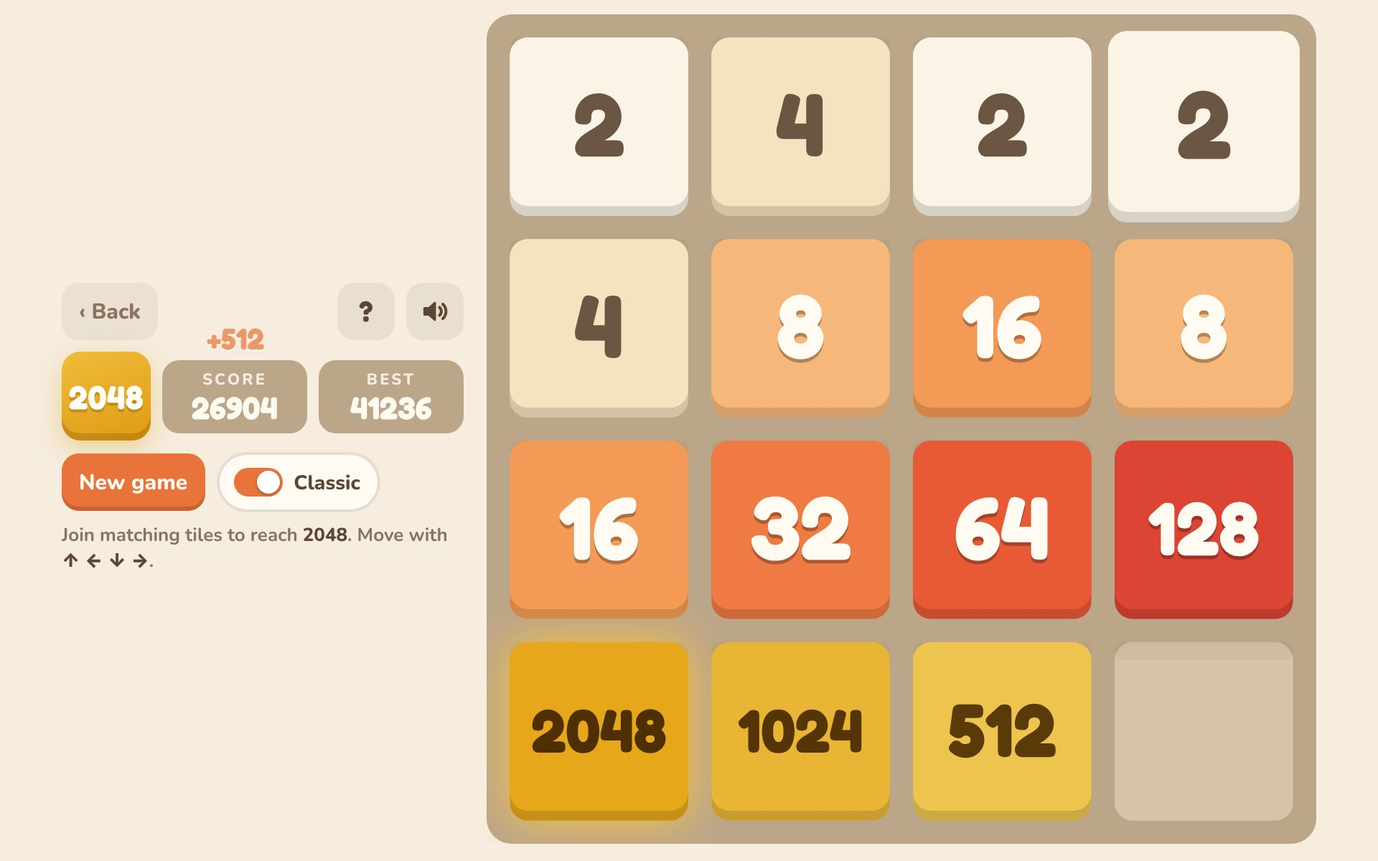
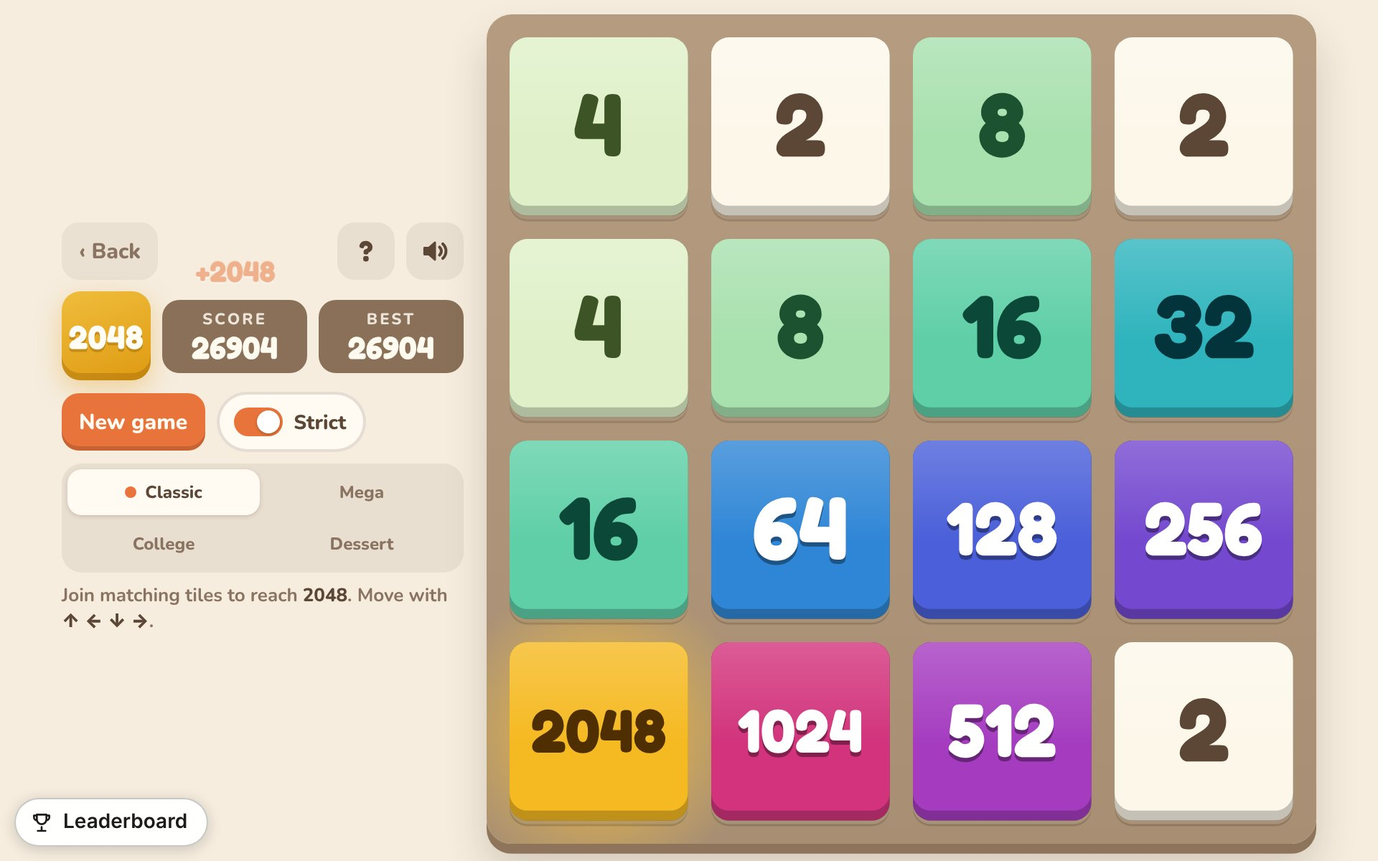
2048: win, game-over and new-game cards, darker score boxes, score bump, new card picture
The overlays dim the board behind a cream card (the win screen adds a
gold sunburst and a star badge). README section, preview.jpg and the
phone thumbnail updated to match. Art only; rules, scoring, controls
and saved data are unchanged.

Claude-Session: https://claude.ai/code/session_01DfCR7RPoK1UNAvb7iRuPWn

diff --git a/e63334287a3deaa3/2048/index.html b/e63334287a3deaa3/2048/index.html
@@ -19,8 +19,8 @@
   --bg:#f6eddf;
   --ink:#5c4636;
   --ink-2:#8a7360;
-  --board:#bca68a;
-  --cell:#d9c8b0;
+  --board:#8a7059;
+  --tray-edge:#8d745b;
   --tan:#a88d70;
   --orange:#e8743b;
   --gold:#e3a51a;
@@ -42,7 +42,8 @@ button:disabled{opacity:.45;cursor:default}
   padding:max(10px,env(safe-area-inset-top)) max(14px,env(safe-area-inset-right)) max(12px,env(safe-area-inset-bottom)) max(14px,env(safe-area-inset-left));touch-action:none}
 #side{width:100%;max-width:560px;display:flex;flex-direction:column;gap:10px;flex:none}
 #wrap{flex:none;display:flex;align-items:center;justify-content:center}
-#board{position:relative;width:300px;height:300px;flex:none;--s:300px}
+#board{position:relative;width:300px;height:300px;flex:none;--s:300px;border-radius:max(8px,calc(var(--s)*.03));
+  box-shadow:0 calc(var(--s)*.012) 0 var(--tray-edge),0 calc(var(--s)*.03) calc(var(--s)*.05) rgba(70,48,28,.2)}
 #cv{display:block;width:100%;height:100%}
 
 #topbar{display:flex;align-items:center;gap:8px;min-height:40px}
@@ -62,6 +63,8 @@ body.framed #back{display:none}
 .sbox small{display:block;font:800 11px var(--f-u);letter-spacing:.14em;text-transform:uppercase;opacity:.85}
 .sbox b{display:block;font:700 26px/1.1 var(--f-d);font-variant-numeric:tabular-nums;white-space:nowrap}
 .plus{position:absolute;left:50%;bottom:100%;transform:translateX(-50%);font:700 20px/1 var(--f-d);color:var(--orange);pointer-events:none;white-space:nowrap;text-shadow:0 1px 0 #fff;animation:plus .8s ease-out forwards;z-index:3}
+#score.bump{animation:bump .26s ease-out}
+@keyframes bump{0%{transform:scale(1)}35%{transform:scale(1.16)}100%{transform:scale(1)}}
 @keyframes plus{0%{opacity:0;transform:translate(-50%,22px) scale(.8)}18%{opacity:1;transform:translate(-50%,2px) scale(1.05)}100%{opacity:0;transform:translate(-50%,-22px) scale(1)}}
 
 #actions{display:flex;flex-wrap:wrap;gap:8px;align-items:center}
@@ -89,17 +92,25 @@ body.touch .kh{display:none} body.touch .th{display:inline}
 .mode[aria-checked="true"]::before{content:"";display:inline-block;width:8px;height:8px;margin-right:6px;border-radius:50%;background:var(--orange);vertical-align:0}
 #modeDesc{margin:6px 2px 0;font:700 13px/1.4 var(--f-u);color:var(--ink-2)}
 
-/* Board overlays: sized from --s (the board's width) so they fit any board */
-.ov{position:absolute;inset:0;display:flex;align-items:center;justify-content:center;border-radius:calc(var(--s)*.03);background:rgba(246,237,223,.8);
-  -webkit-backdrop-filter:blur(2px);backdrop-filter:blur(2px);animation:fade .25s ease-out;padding:calc(var(--s)*.05);text-align:center;z-index:2}
-.ov.win{background:radial-gradient(circle at 50% 40%,rgba(255,226,140,.92),rgba(240,190,70,.86))}
+/* Board overlays: sized from --s (the board's width) so they fit any board. The board dims behind a cream card
+   that pops in; the win screen adds a gold sunburst and a star badge on the card. */
+.ov{position:absolute;inset:0;display:flex;align-items:center;justify-content:center;border-radius:max(8px,calc(var(--s)*.03));overflow:hidden;background:rgba(58,42,31,.62);
+  animation:fade .22s ease-out;padding:calc(var(--s)*.04);text-align:center;z-index:2}
+.ov.win{background:repeating-conic-gradient(from 6deg at 50% 46%,rgba(255,220,120,.22) 0 12deg,rgba(255,220,120,0) 12deg 24deg),radial-gradient(circle at 50% 46%,rgba(214,140,16,.72),rgba(64,40,12,.8))}
 @keyframes fade{from{opacity:0}to{opacity:1}}
-.ov-card{display:flex;flex-direction:column;align-items:center;gap:calc(var(--s)*.03);max-width:100%}
-.ov .big{font:700 calc(var(--s)*.095)/1.05 var(--f-d);color:var(--ink)}
-.ov.win .big{color:#6e3f00}
+.ov-card{position:relative;display:flex;flex-direction:column;align-items:center;gap:calc(var(--s)*.028);max-width:100%;
+  padding:calc(var(--s)*.05) calc(var(--s)*.055) calc(var(--s)*.055);border-radius:calc(var(--s)*.05);background:var(--panel);
+  box-shadow:0 calc(var(--s)*.012) 0 #d6c3a8,0 calc(var(--s)*.04) calc(var(--s)*.09) rgba(30,18,8,.45);animation:card .34s cubic-bezier(.2,1.25,.4,1) both}
+@keyframes card{from{opacity:0;transform:translateY(calc(var(--s)*.03)) scale(.9)}to{opacity:1;transform:none}}
+.ov.win .ov-card{margin-top:calc(var(--s)*.07);padding-top:calc(var(--s)*.105)}
+.ov.win .ov-card::before{content:"\2605";position:absolute;left:50%;top:calc(var(--s)*-.075);width:calc(var(--s)*.15);height:calc(var(--s)*.15);margin-left:calc(var(--s)*-.075);
+  display:grid;place-items:center;border-radius:28%;background:linear-gradient(160deg,#f9cf52,#f0a713);color:#fffdf5;font:700 calc(var(--s)*.095)/1 system-ui,sans-serif;
+  text-shadow:0 calc(var(--s)*.006) 0 rgba(120,72,0,.35);box-shadow:inset 0 calc(var(--s)*-.012) 0 rgba(120,72,0,.25),0 calc(var(--s)*.012) calc(var(--s)*.035) rgba(120,72,0,.4);
+  transform:rotate(-6deg);animation:badge .45s .12s cubic-bezier(.2,1.5,.4,1) both}
+@keyframes badge{from{opacity:0;transform:rotate(-30deg) scale(.4)}to{opacity:1;transform:rotate(-6deg) scale(1)}}
+.ov .big{font:700 calc(var(--s)*.088)/1.05 var(--f-d);color:var(--ink)}
 .ov .big.sm{font-size:calc(var(--s)*.075)}
 .ov p{margin:0;font:700 calc(max(13px,var(--s)*.04))/1.35 var(--f-u);color:var(--ink-2)}
-.ov.win p{color:#7a4c0a}
 .ov .row{display:flex;flex-wrap:wrap;gap:10px;justify-content:center;margin-top:calc(var(--s)*.01)}
 .ov .btn{min-height:44px;font-size:max(14px,calc(var(--s)*.038))}
 .ovstats{display:flex;gap:10px}
@@ -161,7 +172,7 @@ body.touch .kh{display:none} body.touch .th{display:inline}
   .mode{padding:4px 4px;font-size:12px}
 }
 @media (orientation:portrait) and (max-height:600px){ #hint{display:none} }
-@media (prefers-reduced-motion:reduce){.plus,.ov{animation:none}}
+@media (prefers-reduced-motion:reduce){.plus,.ov,.ov-card,.ov.win .ov-card::before,#score.bump{animation:none}}
 </style>
 <script src="/e63334287a3deaa3/stats.js" data-game="2048" data-board="bl" defer></script>
 </head>
@@ -631,6 +642,7 @@ function floatPlus(n){
   s.addEventListener('animationend',()=>s.remove());
   box.appendChild(s);
   setTimeout(()=>s.remove(),1200);
+  if(!REDUCED){const sc=$('score');sc.classList.remove('bump');void sc.offsetWidth;sc.classList.add('bump')}   // the score number bumps too
 }
 function setClassic(on){
   opts.classic=!!on;saveOpts();renderHud();
@@ -954,8 +966,8 @@ function drawJoinFx(v,x,y,sc,k){
   ctx.translate(x+h,y+h);
   ctx.globalAlpha=0.5*f*f;
   ctx.fillStyle='#fff';rr(-h*sc,-h*sc,c*sc,c*sc*0.945,RC*sc);ctx.fill();
-  const rs=1.04+0.26*easeOut(k),lw=Math.max(1.5,c*0.05*f);
-  ctx.globalAlpha=0.75*f;
+  const rs=1.04+0.26*easeOut(k),lw=Math.max(1.5,c*0.065*f);
+  ctx.globalAlpha=0.85*f;
   ctx.strokeStyle=st.rim?'#ffd86a':st.hi;ctx.lineWidth=lw;rr(-h*rs,-h*rs,c*rs,c*rs,RC*rs);ctx.stroke();
   ctx.restore();
 }

diff --git a/README.md b/README.md
@@ -37,7 +37,7 @@ Personal site hosted with GitHub Pages at **https://ascoding11.github.io**, the 
 - `e63334287a3deaa3/rampline/`: Rampline (Back Room), a low-poly stunt time-trial racer with a track builder, online boards and community tracks (Three.js; Firebase Realtime Database only for the boards and community tracks, under the prefix `rl`, plus stats.js). One small car, one track, the clock: 30 built-in tracks in four tiers (`TIERS`: Green, Blue, Red, Black), your own tracks from the builder, and tracks other players publish. Everything that isn't drawing is the `RL` module between `// ==CORE==` and `// ==/CORE==`, with no DOM or Three.js in it, so a Node script can run it on its own: the pieces (`PIECES`), building a track (`buildTrack`), the car physics (`newCar`, `step`), share codes, ghost recordings, the checks (`validate`), the track-writing cursor (`Course`), the tracks (`TRACKS`, `trackOf`) and the checking bot (`runBot`). **Pieces** sit on a grid of 10 m tiles and 2 m height steps with a quarter-turn (`{t, x, y, z, r, w}`: type, tile, height, turn, side walls); each has the tiles it covers (`fp`), how many height steps above it it keeps clear (`hh`) and its ports (where road leaves it). Pieces: straight, curves (tight, normal, wide, huge), S-bends left and right, slope, steep slope and long climb (+1, +2, +3 steps), climbing curves left and right (+1 step while turning), bump, two banked curves, boost pad, kicker and big ramp (no exit port: they launch you), loops leaning left and right, wall ride, narrow road, gap, platform, start, checkpoint, checkpoint ring (an arch instead of posts), finish, and scenery (tree, rock, arrow sign). The order of `PIECES` is part of the share-code format: only ever add to the end (the pieces from curveXL on were added with the handling pass). Raised road gets **pillars** down to the ground automatically (`pillars` in `buildTrack`), every 10 m or so, only where no other piece is below that tile and always below the road surface. **One set of triangles:** `buildTrack` turns every piece into triangles that are both the collision geometry (type 0 road, 1 solid; `FX` 1 marks a boost pad) and, merged with one colour each, the single drawn mesh; positions are rounded to 1/1024 m. **Physics** (`PH`, `PHYS_V` 2, fixed 1/120 s step, only + − × ÷ and √ while stepping, so a recording of inputs replays to exactly the same run on any device): the car is a point riding 0.55 m above the road with two 0.75 m spheres for hitting things. Acceleration 20 m/s² tapering to nothing at 82 m/s with drag: 0–100 km/h in 1.5 s, 0–200 in 3.8 s, top speed about 252 km/h. Steering lock and rate fall off with speed (full lock turns in 6 m at 30 km/h and about 55 m at 150 km/h), and the turn rate is capped a little above what the tyres hold, so holding full lock at speed slides a little. **Drifting:** let go of go and tap brake while steering at more than 50 km/h: the nose holds an angle set by the steering (`driftAng`), grip is a little higher than normal (`driftK`), so you get round a tight corner at speed (about 75 % of the grip turn's radius, for 3–8 % of your speed); it lasts while you keep steering and the car is sideways. Downforce grows with speed (`stick` plus `stickHi` above 30 m/s), which keeps you on loops, wall rides and most crests; the fastest cars still fly over sharp crests. A share of the road's turn at take-off carries into the air as spin (`carryW`); in the air the **air brake** (input 32, Space or Left Shift, or the brake) damps the spin and levels the car for the landing; landing square keeps your speed, crooked costs up to 70 % (with the air brake the bot's landings cost 2–5 %, without it up to 70 % and falls). Boost pads give 1.4 s of extra push up to 1.3 × the top speed. Walls take the speed into them, turn the nose along them and never push a car on the road upwards (barriers on banks and loops lean). Falling off (or 6 s in the air) puts you back at the last checkpoint 0.25 s later with the speed you had there; Backspace does it at once. **A run that went back to a checkpoint doesn't count** (no best, ghost, medal, stats or board), and the HUD shows "Practice". Starting a track and R are both instant and plain (restart under a millisecond): no countdown, no camera move and no fade; the car waits on the line with the camera already in place, and the clock starts with your first drive key. The menu sits over a still view of a track. Splits against your best show at every checkpoint and at the finish. **Gates:** a checkpoint counts when you cross it either way; the finish only counts going forwards, once every checkpoint has been passed. **Tracks** are written with the `Course` cursor (`s`, `L`/`R` curves with `S`, `M`, `L`, `X` sizes, `sL`/`sR`, `bL`/`bR`, `up`/`down`, `climb`/`drop`, `cuL`/`cuR`/`cdL`/`cdR`, `bump`, `boost`, `ring`, `loop`, `wall`, `narrow`, `gap`, `ramp` + `jump(n, dy, speed cap)`, `plat`, `cp`, `fin`), each with its look (`th`). After changing a track or the physics, run the bot: it drives with the real `step` and only a player's keys (it slows for crests that lead into corners and for jumps' speed caps, uses the air brake, and never starts a drift by accident), in 13 styles; every track must be finished cleanly by at least one, and the same inputs must replay to the same time. `MED` ([builder, gold, silver, bronze] in ms) comes from it: builder is the bot's best clean time rounded up to 10 ms, gold 1.05 ×, silver 1.2 ×, bronze 1.45 ×, rounded up to 0.1 s. Built-in tracks run 24–49 s for the builder time. The 20 tracks from the first version got longer layouts (layout 2) with the handling pass: a best from the first layout is kept in the save as `pb[id].old = {t, m}` (shown on the track card as "Old layout", and its medal `m`, worked out with `OLD_MED`, still counts). **Looks:** three environments of our own, chosen per track (`th`, or Look in the builder): Summer valley, Snowy pass, Desert canyon (`THEME`: sky, fog, ground, hills, and recolouring of trees, rocks and road sides). **Ghosts:** a ghost is a recording of inputs driven through the same physics once (`GTrack`, every step's pose kept, built a little ahead of where it's needed), so up to 10 race at once with almost no cost and never collide: your best (the Ghost setting) plus any you tick on a board. **Online** (signed in anonymously only when first used; the shared rules only let a player write their own node, which needs n, c, x, z, h, ts): `rooms/rl-b2-<key>/players/<uid>` is a player's board entry for a track (`t` best ms, `k` car, `p` paint, `pa`, `a`), `rooms/rl-g2-<key>/players/<uid>` the ghost behind it (`t`, `g` the inputs, `f` 2, `v` PHYS_V), where `<key>` is a built-in track's id or a custom track's `trackKey` and "2" is PHYS_V (new physics, new boards). A clean new best is uploaded if it beats the account's entry. The top 10 shows only entries whose ghost, fetched and driven again on this device, finishes cleanly in exactly the claimed time (`Online.verify`; results cached in `rampline:vc`), so a made-up time or an edited recording never shows. `rooms/rl-tracks/players/<uid>` holds a player's published tracks (`tr: {<trackKey>: {nm, code, at}}`, at most 5, at most 800 pieces each, and only after a clean finish of it), `rooms/rl-plays/players/<uid>` who raced which published track (`p: {<trackKey>: [best ms, last played]}`, 150 at most). **Community** lists published tracks (newest, most raced, raced this week), with the featured track of the week on top (the most raced in the last 7 days, else one picked by the week number), each with its own top 10; names and track names go through `/namefilter.js`. Hide and Report hide a track in this browser only (`rampline:hidden`); there is no shared report list, so Report tells the player to use Tell Arjun. **Replay viewer:** watch any of your last 12 runs (`rampline:runs`) or a board run, with play/pause, frame steps, ¼× to 2×, a timeline, and a graph of speed over distance that can lay a second run (your best or a board run) over the first. **Builder:** a free camera (middle-drag to look round, right-drag, Shift-drag or WASD to pan, wheel to zoom, Shift + wheel or Q/E for the build height), a palette (keys 1–0 for the first ten), click or tap to place (R turns it; the preview shows arrows where the road leaves), right-click, X then click, or the bin to delete, the select tool (V: click, Shift-click or drag a box) to move (M, or M over a piece to pick it up), copy (Ctrl+C), cut (Ctrl+X), paste (Ctrl+V, R turns the group, Esc cancels and puts a moved group back) or delete pieces, Ctrl+Z / Ctrl+Y undo and redo (200 steps), Look (theme), a check, Test drive (T), Share, and Publish (in Track builder's list). **Share codes:** `RL1.` + base64url of: version 1, name length + UTF-8 name (≤ 40 bytes), piece count (2 bytes), 5 bytes a piece (type, x + 128, z + 128, y, turn + 4 × walls), then an FNV-1a checksum (4 bytes); version 2 is the same with a theme byte after the version (theme 0 is still written as version 1, so older copies read it). `decodeTrack` checks everything and returns a plain message for anything wrong. **Saved in the browser:** `rampline:save` (`{v: 1, pb: {<key>: {t, sp, n, name, lv, old}}, runs}`), `rampline:ghost:<key>` (`{v: PHYS_V, f: 2, t, g}`: your best run as inputs, one byte per step (1 go, 2 brake, 4 left, 8 right, 16 back to checkpoint, 32 air brake) in runs of varint(count × 64 + input), base64url; version 1 ghosts used count × 32 and the old physics, and are left alone), `rampline:runs`, `rampline:tracks`, `rampline:hidden`, `rampline:vc`, `rampline:set` (`vol, mute, cam, gfx, car, col, ghost`), `rampline:garage` (`{v: 1, car, col, pat, acc, rim, trail, name}`: car, paint, pattern (plain, stripe, twin stripes, two-tone) and its colour, rims, exhaust trail (off, smoke, flame, rainbow) and the name on the boards; account-nudge.js syncs it) and keys under `keybinds:rampline`. Stats hooks: `min('r2-<track id>', seconds)` for every clean built-in finish (stats.js's `LOWER`; the old `t-<id>` names stay there for first-layout times), `max('medals', n)` (1 to 4 a track, old-layout medals included) and `max('golds', n)`. Drawing: the track is one merged mesh, each gate banner its own mesh, the car one mesh plus its wheels as one `InstancedMesh`, each ghost the same plus a name tag, dust and the exhaust trail a point cloud each, speed lines one line set; with no ghosts racing is about 15 draw calls, with 10 ghosts about 41 (logic under 1 ms a frame). The camera widens its view and pulls back with speed, and speed lines fade in above about 90 km/h; the Speed effects setting (menu and pause, `set.fx` in `rampline:set`, on by default) turns both the widening and the lines off. On touch screens the page adds `touch` to `body` (steer bottom left, GO and BRAKE bottom right, BRAKE in the air is the air brake, checkpoint/restart/camera/sound/pause top right); the builder works by tapping, with one finger to look round, two to pan and pinch, and the select tool's bar (Move, Copy, Delete, Done) above the palette. A test hook (`window.__rl`) exists only when `navigator.webdriver` is set.
 - `e63334287a3deaa3/tidewick/`: Tidewick (Back Room), a classic 8-bit style side-scrolling platformer for one player (Canvas 2D and Web Audio, no Firebase except stats.js). Pip, a child in a yellow raincoat, crosses a rainy harbour at dusk in two stages: **HARBOR 1** (the quay, about 210 tiles) and **HARBOR 2: THE BREAKWATER** (a short stone fortress over dark water, about 100 tiles) with a boss at the end. Unlike the other Back Room games it isn't one self-contained `index.html`: it's ES modules (the owner asked for them) in `js/`, loaded by `<script type="module" src="js/main.js">` with relative imports only, so it works from `python3 -m http.server` and GitHub Pages with no build step: `constants.js` (**every tunable number**: speeds, jump bands, gravities, air control, hitboxes, timers, scores, the boss), `level.js` (the stages and the cellar as rows of characters, with a legend at the top of the file: edit a row by hand, keeping every row of a map the same length), `player.js` (Pip's movement and collision), `entities.js` (enemies, power-ups, sparks, the Tollkeeper and its bolts), `game.js` (the states, scoring and how things touch; no DOM, so a Node script can import it and run the game headless), `collision.js`, `camera.js`, `input.js`, `sprites.js` (a 50-colour palette and every sprite as a pixel grid using at most three colours plus transparency, drawn to offscreen canvases at startup), `render.js`, `hud.js` (a 5 × 7 pixel font drawn in code, the HUD and the full-screen cards), `audio.js` (two pulse voices, a triangle and noise, synthesised; every tune is Tidewick's own) and `main.js` (the page, the loop, touch buttons). **Loop**: a fixed 60 updates a second in `requestAnimationFrame` (the number of updates is worked out from the time passed, so 60, 120 and 144 Hz screens run identically), a frame gap is capped at 100 ms, and the game pauses itself when the tab is hidden or loses focus. The picture is 256 × 240, drawn into an off-screen buffer and shown as large as the window allows in its 16:15 shape (`fit()` in `main.js`; F or the Full screen button gives it the whole screen and hides the key strip). The canvas is sized in device pixels and laid out at one CSS pixel per canvas pixel, then shrunk by the device pixel ratio with a transform (a fractional CSS width gets rounded by layout and stretches the picture by a pixel or two). When the size comes out within 4% of a whole number of device pixels per game pixel it snaps to it and the buffer is copied straight across; otherwise `present()` first blows the buffer up to the next whole number with hard edges and then eases that down to the canvas, so every game pixel is the same width and nothing shimmers as the view scrolls. Making the picture bigger never changes the game: the rules only ever see the 256 × 240 world. **Physics** follow the owner's spec to the number (pixels per frame): from rest Pip starts at 0.0742, walks up to 1.5625 (0.0371 a frame) and runs up to 2.5625 (0.0557), slows by 0.0508 with nothing held and skids at 0.1016 when pushing the other way, turning round below 0.6875; the jump's start speed and two gravities are picked at take-off from the speed (`JUMP_BANDS`: under 1, up to a full walk, and anything faster than a walk, which is the higher, heavier running jump; the lighter gravity only while jump is held and Pip is still rising), falling speed drops back to 4 whenever it reaches 4.5 (`MAX_FALL`, `FALL_TRIP`), air control has its own accelerations and a cap set by the take-off speed. A standing jump rises 66 px (4.1 tiles), a full-speed running jump 82.5 px (5.2). Running into a wall stops Pip dead (so a jump from against a wall is a standing jump), and big Pip ducks by himself if he ever stands where there is only room to crouch. The thresholds for the running jump and the skid turn, and the falling-speed rule, were checked against a public disassembly of the 1985 game these numbers come from. Head bumps hit only the block nearest Pip's centre and slide past a corner clipped by 4 px or less. The view only scrolls right and its left edge is a wall. **Things**: driftwood planks (small Pip bumps them, big Pip breaks them), lantern crates (a brass button, or a loaf of bread when small and an ember pepper when big), planks hiding up to 10 buttons for 4 s after the first hit, planks hiding a firefly jar (12 s of glowing invincibility with its own music), a hidden crate with a clover (an extra life), stone crates, clay chimney pots (the smoking one leads down to a cellar of buttons, whose flue brings Pip back up a second chimney), harbour water (costs a life), the signal mast (100 to 5000 points by grab height) and the harbour-master's hut, where the time left counts down at 50 points a second. **Enemies**: Bilge, a walking puddle (0.5 px a frame, turns at walls and at other enemies, walks off ledges, stomped flat for half a second); Whelk, a snail whose shell can be kicked (3 px a frame; a sliding shell knocks out other enemies on the shell chain, hurts Pip from the side, and a stomp stops it); and a wary Whelk with a coral shell that turns round at ledges. Stomps score 100, 200, 400 … 8000 then a life; shell knock-outs 500 … 8000 then a life. **The Tollkeeper** waits on a plank drawbridge at the end of the Breakwater: it paces 40 px either way, hops on a fixed random-looking rhythm (`BOSS_HOP_GAPS`), spits a slow brine bolt every 2 to 3 s (`BOSS_SPIT_GAPS`) at one of three heights (jump the low one; big Pip ducks the middle one), and its bolts start drifting in from off screen before it shows. Stomping it hurts. Get past it to the winch at the far end (the bridge drops it into the water) or hit it with 5 sparks; either way 5000 points, then the hut, the count, and an ending card. Dying in the Breakwater restarts the Breakwater. **Saved in the browser only**: `tidewick:hi` (best score) and `tidewick:mute`, both in try/catch; keys under `keybinds:tidewick`. Stats hook: `max('score', score)` at game over and at the ending (play time is counted by stats.js as usual). Controls: arrows or A/D move, down or S crouches and goes down a chimney, X or Space jumps, Z or Shift runs and throws sparks, Enter (or Esc) pauses, M mutes, all rebindable under Controls; backtick shows the debug view (hitboxes, position, speed, state, fps) and, while paused in it, P steps one update. On touch screens (`body.touch`): a pad bottom left (slide a thumb between left and right), RUN and JUMP bottom right, sound and pause top right; the picture sits above them upright and between them sideways. A test hook (`window.__tw`) exists only when `navigator.webdriver` is set.
 - `e63334287a3deaa3/gridpop/`: Gridpop (Back Room), a single-player block-placement puzzle on an 8 × 8 board (one canvas, no libraries, no Firebase). The rules live between `// ==CORE==` and `// ==/CORE==` with no drawing or input: `DEFS` lists the 41 pieces, every orientation a separate piece because pieces never turn, each with a weight (pieces of 5 or more squares are about one draw in six); `deal` makes three independent weighted draws and only looks at the board to make sure an empty board gets something that fits, so sets are never rigged either way; `applyMove` places a piece, clears every full row and column at once (crossing squares once), scores 1 a square plus `lineScore(n)` (10, 30, 60, 100, 150, 210 for 1–6 lines, `5n(n+1)`) times the combo, and deals a new set only when all three tray slots are empty. The combo goes up by one for each clear that comes within 2 non-clearing placements of the last one (`combo`, `miss`); a third miss resets it. Game over is checked after the clears, against every position of every piece left in the tray. Saved in the browser only: `gridpop:save` (the game in progress as `{v:1, b: 64 digits 0–8, t: tray as [piece id, colour] or 0, s, cb, ms, mv, best}`, written after every move and removed when the game ends; `deserialize` rejects anything out of range, unknown piece ids or a board with a full line, and a bad save just starts a new game), `gridpop:best`, `gridpop:mute`, `gridpop:seen` (How to play shown once), and keys in `keybinds:gridpop` (keybinds.js). Dragging (`updateSnap`, `liftFor`, `slotAt`): a press anywhere in a piece's third of the strip beside the board picks it up (a press in an empty slot's third takes the nearest piece left, if close), and the piece grows to board size at once. With a mouse it is centred on the cursor; on touch it rides 1.75 squares above the finger, the same everywhere, except that when the board reaches almost to the bottom of the screen (phones sideways) the lift shrinks over the last 2.5 squares so the bottom row can be reached with the finger still on the screen. It snaps by its centre to the nearest square; if that spot is blocked, the nearest free spot within about half a square more is used, a piece hanging a little off the edge counts as at the edge, and a chosen spot is kept until the piece is clearly nearer another (so it doesn't flicker or move as the finger lifts). The shadow (the piece's colour plus a white outline drawn over the dragged piece) is always exactly where it will drop, and there is no shadow when it can't drop; letting go drops it on the shadow or sends it back to the tray. Leaderboards hooks: `BackRoomStats.max('score', …)` (best score) and `add('lines', n)` (lines cleared). A test hook (`window.__gp`) exists only when `navigator.webdriver` is set.
-- `e63334287a3deaa3/2048/`: 2048 (Back Room), the single-player number-sliding puzzle, drawn on one canvas (no libraries). The rules are pure functions at the top of the page script (`slideLine`, `moveBoard`, `spawnTile`, `isOver`); a board is an array of n × n numbers, row by row, with 0 for empty (every rule takes the size from the board's length), and `linesFor(n)` lists each direction's rows or columns starting from the wall being moved toward, which is where joins start (`LINES` is the 4 × 4 set). A move that changes nothing does nothing (no new tile, animation or score). A move made during an animation finishes that animation at once and then runs, so fast keys never lose a move or add an extra tile. **Modes** (picker under the buttons and in the menu; the last one played reopens): **Classic** is the 4 × 4 game; **Mega** is the same game on a 6 × 6 board (same spawn odds, win at 2048 with keep-going); **College** and **Dessert** are rule-identical to Classic (same engine, only the drawing differs) but each tile shows a step on a 12-step ladder from 2 to 4096 with its own colours, the number small in the corner, and a win at the 2048 step: colleges from ASU up to UChicago (2048) and Princeton (4096), a deliberately silly joke ranking with no basis beyond rough selectivity (the ladder is `COLLEGE` in the script), and desserts from a plain cracker up to a wedding cake (2048) and a croquembouche (4096), each with a small icon drawn with canvas shapes (`DESSERT` and `ICONS`); past the top of a ladder tiles show plain numbers. Strict mode (on by default; the setting was called Classic before the modes arrived, and its key is still `classic`) hides Undo; with it off there is a one-step Undo, and a game where Undo was used no longer reports to the leaderboard. Everything is saved only in this browser, one game and one best per mode: `g48:game` and `g48:best` for Classic (unchanged, so older saves carry over), `g48:game:<mode>` and `g48:best:<mode>` for `mega`, `college` and `dessert` (the game in progress is `{v:1, b: board, s: score, w: reached 2048, wp: the 2048 screen is still showing, u: the undo step {b, s, w} or null, a: Undo was used, m: moves}`, with 36 entries in `b` for Mega), `g48:opts` (`classic`, `mute`, `mode`) and `keybinds:2048` (keybinds.js). Keep these keys and the `v:1` format so saved games carry over; every read is checked (a save of the wrong size for its mode is ignored), and a broken save just starts a new game. Leaderboard hooks, sent only from games without Undo: `BackRoomStats.max('best', score)` and `BackRoomStats.max('tile', biggest tile)` for Classic, and `best-<mode>` / `tile-<mode>` for the others (`best-mega`, `tile-mega`, `best-college`, `tile-college`, `best-dessert`, `tile-dessert`; stat names can't hold underscores). The 2048 leaderboard has a chip for each mode's best score plus Classic's biggest tile (`tile-<mode>` is sent but has no board yet), and account-nudge.js saves `g48:best` and every `g48:best:<mode>` to the signed-in account. A webdriver-only hook `window.__g48` exposes the rules, the mode switch and game controls for automated tests.
+- `e63334287a3deaa3/2048/`: 2048 (Back Room), the single-player number-sliding puzzle, drawn on one canvas (no libraries). The rules are pure functions at the top of the page script (`slideLine`, `moveBoard`, `spawnTile`, `isOver`); a board is an array of n × n numbers, row by row, with 0 for empty (every rule takes the size from the board's length), and `linesFor(n)` lists each direction's rows or columns starting from the wall being moved toward, which is where joins start (`LINES` is the 4 × 4 set). A move that changes nothing does nothing (no new tile, animation or score). A move made during an animation finishes that animation at once and then runs, so fast keys never lose a move or add an extra tile. **Modes** (picker under the buttons and in the menu; the last one played reopens): **Classic** is the 4 × 4 game; **Mega** is the same game on a 6 × 6 board (same spawn odds, win at 2048 with keep-going); **College** and **Dessert** are rule-identical to Classic (same engine, only the drawing differs) but each tile shows a step on a 12-step ladder from 2 to 4096 with its own colours, the number small in the corner, and a win at the 2048 step: colleges from ASU up to UChicago (2048) and Princeton (4096), a deliberately silly joke ranking with no basis beyond rough selectivity (the ladder is `COLLEGE` in the script), and desserts from a plain cracker up to a wedding cake (2048) and a croquembouche (4096), each with a small icon drawn with canvas shapes (`DESSERT` and `ICONS`); past the top of a ladder tiles show plain numbers. Strict mode (on by default; the setting was called Classic before the modes arrived, and its key is still `classic`) hides Undo; with it off there is a one-step Undo, and a game where Undo was used no longer reports to the leaderboard. Everything is saved only in this browser, one game and one best per mode: `g48:game` and `g48:best` for Classic (unchanged, so older saves carry over), `g48:game:<mode>` and `g48:best:<mode>` for `mega`, `college` and `dessert` (the game in progress is `{v:1, b: board, s: score, w: reached 2048, wp: the 2048 screen is still showing, u: the undo step {b, s, w} or null, a: Undo was used, m: moves}`, with 36 entries in `b` for Mega), `g48:opts` (`classic`, `mute`, `mode`) and `keybinds:2048` (keybinds.js). Keep these keys and the `v:1` format so saved games carry over; every read is checked (a save of the wrong size for its mode is ignored), and a broken save just starts a new game. Leaderboard hooks, sent only from games without Undo: `BackRoomStats.max('best', score)` and `BackRoomStats.max('tile', biggest tile)` for Classic, and `best-<mode>` / `tile-<mode>` for the others (`best-mega`, `tile-mega`, `best-college`, `tile-college`, `best-dessert`, `tile-dessert`; stat names can't hold underscores). The 2048 leaderboard has a chip for each mode's best score plus Classic's biggest tile (`tile-<mode>` is sent but has no board yet), and account-nudge.js saves `g48:best` and every `g48:best:<mode>` to the signed-in account. **Drawing:** the number tiles have the game's own colour ramp (`PAL`: paper, leaf, mint, teal, blue, indigo, violet, berry, getting darker at every step; 2048 is the one gold tile and glows; the tiles past it are deep colours with a gold rim) and the board is a walnut tray with a sunken well per square. Each tile value is painted once (`paintTile`: shadow, lower lip, a face lit from above, rim, number or ladder name and icon) into its own small picture (`spriteOf`) and then stamped with one `drawImage`, and the empty tray is one picture too (`boardOf`); `clearStyles()` throws these away when the size, mode or font changes, so call it rather than `styles.clear()`. The gold glow is one soft picture drawn under all the tiles (`drawGlow`), so it never covers a neighbour. A move slides the tiles, then a join pops with a white flash and a ring (`drawJoinFx`) and the new tile fades in as it grows, all inside the same 110 ms slide and 190 ms settle as before; the score number bumps when points arrive. With the system's reduce-motion setting none of this moves (the board just redraws). The win, game-over and new-game screens dim the board behind a cream card sized from the board's width (`--s`); the win screen adds a gold sunburst and a star badge, both plain CSS. A webdriver-only hook `window.__g48` exposes the rules, the mode switch and game controls for automated tests.
 - `e63334287a3deaa3/stackfall/`: Stackfall (Back Room), a single-player falling-block puzzle with two modes on one page (Canvas 2D, Web Audio, no Firebase). The rules are two pure engines with no DOM in them, `Classic(opts)` and `Sand(opts)`, driven by `update(ms, softDrop)` and the move, rotate, hardDrop and holdPiece calls; the view only reads their state, and they report sounds and effects through `onEvent`. **Classic**: a 10 × 20 well plus 2 hidden rows, 7-bag randomizer (`makeBag`), SRS rotation with the published kick tables (`KICKS_UP`, one table for J/L/S/T/Z and one for I; `KICKS` is the same data converted to y-down), DAS 170 ms and ARR 50 ms, 500 ms lock delay that up to 15 moves or turns can reset (`LOCK_MS`, `MAX_RESETS`), gravity from the standard `(0.8 − (level − 1) × 0.007)^(level − 1)` s per row curve, a level every 10 lines, hold once per piece and a five-piece preview. Scoring is 100/300/500/800 × level for 1–4 lines (4 is called a "QUAD!"), T-spins by the 3-corner rule (0–3 lines 400/800/1200/1600, minis 100/200/400, all × level; the 5th kick test upgrades a mini), back-to-back × 1.5 for quads and T-spin clears in a row, combo +50 × combo × level, and 1 per soft-dropped row, 2 per hard-dropped row. It tops out when a new piece overlaps the stack or a piece locks entirely in the hidden rows. **Sand**: the well is a grain grid of 10·B × 20·B in typed arrays (B = 10, so 100 × 200, on computers; B = 8, so 80 × 160, on touch screens and small windows; every rule is in block units, so both play the same and grain counts and scores are normalised to 64 grains per block). Each piece is rigid and steerable (moves in half-block steps) until it touches the floor or the sand, then it crumbles into grains of its one colour (per-grain shade). `step()` is the cellular automaton: bottom row up, each grain falls straight down if it can, else slides diagonally down to a random free side, else rests, so each grain moves at most once a step; it runs at 22.5·B steps a second, up to 10 a frame. `findClear()` flood-fills (4-neighbour, one colour, `Int32Array` queue) from every grain on the left wall, and a component that also reaches the right wall clears whole: it flashes for 200 ms, a dissolve sweeps across it for 260 ms, and then all its grains vanish together so the sand above drops and can make another link. Points are the grains removed × the chain count in that cascade × (1 + 0.25 × (level − 1)), plus 300 × (colours − 1) × level when a new colour joins the chain; the chain resets once the sand comes to rest with nothing left to clear. The level goes up every 3,000 grains cleared (`GRAINS_PER_LEVEL`) and the fall speed is `sandSpeed(level)` blocks a second. Game over: the danger line is 2 blocks below the top (`DANGER`); a new piece only appears when no sand is above it, and if sand is still above it 1 s after the piece is due (`SPAWN_WAIT_MS`), the game ends. Sand mode has 4 colours by default, or 5 or 6. Saved in this browser only: best scores in localStorage `stackfall:best:classic`, `stackfall:best:sand` (4 colours), `stackfall:best:sand5` and `stackfall:best:sand6`, plus `stackfall:sandColours`, `stackfall:mute` and the key bindings (`keybinds:stackfall`, via `keybinds.js`). At game over it reports `BackRoomStats.max('classic' | 'sand', score)` and `max('lines', lines)`; `stats.js` has no `READ` entry for it yet. In an automated browser, `window.__sf` exposes both engines, the shape and kick tables, `state()`, `layout()` and `start(mode)` for the rule tests.
 - `e63334287a3deaa3/melon-merge/`: Melon Merge (Back Room), a single-player fruit-merging puzzle with its own 2D circle physics (no libraries, no Firebase). Fruit are dropped from above a glass jar; two of the same stage that touch merge into the next of 11 stages (cherry → watermelon) at their combined centre with their averaged velocity, growing to full size over 0.12 s so neighbours get pushed aside; two watermelons that touch both burst for `MELON_BONUS` (200). Drops are uniformly random from stages 1–5 (`makeQueue`). Merging into stage k scores `SCORES[k]` (1, 3, 6, … 66), and every merge in a chain counts. Game over when any fruit that isn't still falling in (it counts once it first lands, or after `ENTER_GRACE` 1 s) stays above the red line (`DANGER_Y`) for `OVER_LIMIT` 1.5 s in a row. The physics (`makeSim`) has no DOM in it: world units with the jar 520 × 720, a fixed 1/120 s step with 2 sub-steps, warm-started sequential impulses with friction and rolling, bounce only on a contact's first touch (so piles can't pump themselves up), then 4 position-correction passes (heavier fruit move less) and wall clamps; change `RADII` and the jar size together, since the danger line and drop height are measured against them. Only the best score is saved, in this browser under `melon-merge:best` (also `melon-merge:mute` and `melon-merge:faces`); a game in progress isn't saved. Keys are rebindable through `keybinds.js` (`keybinds:melon-merge`). Calls `BackRoomStats.max('score', …)` at game over and `BackRoomStats.add('melons', 1)` for each watermelon; `leaderboard.js` needs entries for those if they should show on the leaderboards. **Turkey Week** (`../events.js`, November 15 to 26, 2026): the eleven stages are drawn as a Thanksgiving dinner (cranberry, pecan, sprout, dinner roll, yam, apple, corn, ham, pumpkin, pumpkin pie, turkey): `FR_DINNER` holds the names and colours and `paintDinner` the art, swapped in by `setDinner`; the help text and the first-turkey banner follow. Sizes, scores, physics and the saved best are unchanged. The Turkey Week button on the start and pause panels switches back to fruit.
 - `e63334287a3deaa3/patchwork-tower/`: Patchwork Tower (Back Room), a one-screen fix-it arcade game in pixel art for one player (one file, one canvas, Web Audio, no libraries, no Firebase except stats.js). It took the place of Hivefix; `e63334287a3deaa3/hivefix/index.html` is now only a redirect to it, so old links and bookmarks still work (`m/thumbs/hivefix.jpg` stays for the old What's new entry). Rivet, a repair bot with a wrench, hops between the windows of a brick tower at night (5 across, 4 down) and fixes each broken one until it glows; cracked windows take one fix, dark ones two, and fixing roots the bot to the spot. A gargoyle walks along the roof, stops over a column (more often than not the bot's), winds up (eyes red, a red arrow under the roof ledge on every column about to be hit) and kicks a brick straight down it. Clearing every window ends the floor (500 plus 10 for each second left of 60) and the next one starts with a new layout. **Rules** live between `// ==RULES==` and `// ==END RULES==`: no page, clock, sound or `Math.random` in there, so the same seed and presses always give the same game (`create(seed)`, `step(g, 1/120)`, `press(g, k)` for a tap and `hold(g, k, on)` while a key or button is down, with k one of up, down, left, right, fix; what should be heard goes into `g.ev` as words the page plays). `g.win[r][c]` is 0 fixed / 1 cracked / 2 dark; `g.blockV[r][c]` is a planter under the sill of (r, c), which blocks climbing between rows r and r+1; `g.blockH[r][c]` is an open shutter between (r, c) and (r, c+1), which blocks stepping sideways. **Tuning** is the constants at the top of the rules: a hop takes 0.12 s (`HOP`), a fix 0.26 s (`FIX`; 0.08 s with cocoa), a press made during a hop or fix is remembered for 0.3 s (`BUF`), a held direction or FIX repeats after 0.22 s (`REPEAT`), the wind-up is 0.4 s (`TELE`) plus 0.3 s on floor 1 shrinking to nothing by floor 4 (`TELE_EARLY`), 3 lives, a hit freezes the world for 1 s and restarts the bot at the door with 2 s of blinking. Per floor: 7 + 2 × floor windows broken (all 20 from floor 7), the chance one is dark is 0.15 + 0.1 × floor up to 0.75, one more planter or shutter each floor up to four (each on its own edge, redrawn until every window can be reached), the gargoyle walks at 55 + 9 × floor pixels a second, bricks fall at 65 + 11 × floor, and its rest between kicks is 1.5 − 0.13 × floor seconds, never under 0.35; the speeds stop rising at floor 12 (`TOP_LEVEL`). From floor 2, bats cross a row (an arrow blinks at that edge of the row for 0.8 s first, `BAT_WARN`); from floor 3 a kick sometimes (35%) sends a second brick down a neighbouring column 0.18 s later, chosen at the start of the wind-up so its arrow shows too. Cocoa appears on a sill now and then for 7 s: 6 s safe from everything, the first 4 with one-tap repairs, +300. The hit boxes are narrower than the sprites (9 pixels either side for bricks and bats). **Drawing**: the game is a 240 × 320 picture. `layout()` shows it at a whole number of device pixels per game pixel (the canvas is sized in device pixels and scaled back by 1/devicePixelRatio, its corner snapped to a device pixel), so pixels stay square and sharp on any screen; never size the canvas with CSS percentages or `vh`. The sky, skyline and brickwork are drawn once (`back`), the windows, planters and shutters are redrawn only when one changes (`g.winDirty`), and words use a 5 × 5 pixel alphabet drawn in code (`FONT`, capitals, digits and `+ - : ! .` only), not a web font. The loop runs the rules in fixed steps of 1/120 s and draws between steps, so it plays at the same speed on 60, 120 and 144 Hz screens. The game pauses when the tab is hidden or the window loses focus. **Saved in the browser only**: `patchwork-best`, `patchwork-mute` (in try/catch), keys under `keybinds:patchwork-tower`. Stats hook: `max('score', score)` and `max('floor', floor reached)` when a floor is cleared and at game over (the Leaderboards show best score). Controls: arrows or WASD hop (hold to keep hopping), Space, Z or X fix (hold to keep fixing), P, Enter or Esc pause, M sound, all rebindable under KEYS. On touch screens (`body.touch`): a d-pad (slide a thumb between arrows) and a round FIX button under the screen, or either side of it when the phone is sideways. How to play sits beside the screen when there is room, otherwise behind the ? button. A test hook (`window.__pt`) exists only when `navigator.webdriver` is set.
